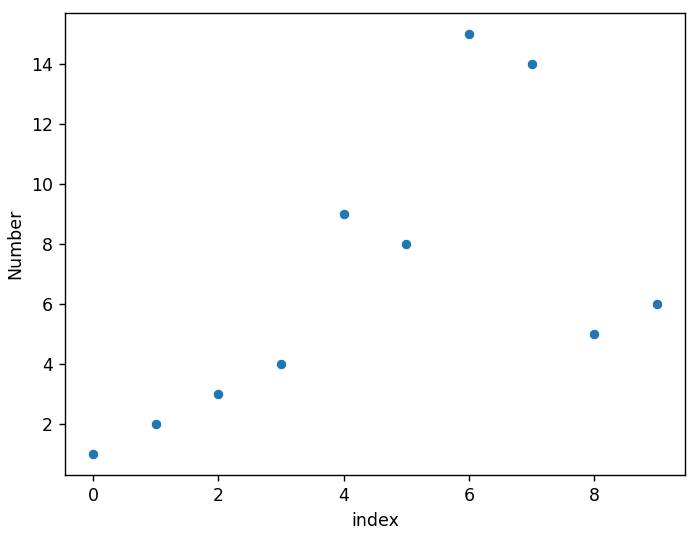
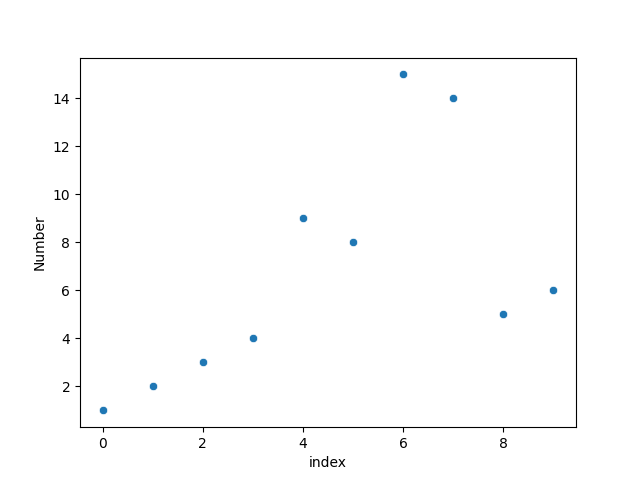
edit README.md

diff --git a/the_yellowslone_permutation.py b/the_yellowslone_permutation.py
@@ -23,8 +23,7 @@ def generate_the_yellowstone_permutation(n):
         i += 1
     return sequence
 
-sequence = generate_the_yellowstone_permutation(20)
-print(sequence)
+print(generate_the_yellowstone_permutation(100))
 
 # Basic Scatterplots
 n = 10
@@ -32,6 +31,7 @@ sequence = generate_the_yellowstone_permutation(n)
 df = pd.DataFrame(sequence, columns=["Number"])
 df['index'] = [i for i in range(n)]
 sns.scatterplot(x="index", y='Number', data=df)
+plt.savefig("images/10.png")
 plt.show()
 
 n = 100
@@ -39,6 +39,7 @@ sequence = generate_the_yellowstone_permutation(n)
 df = pd.DataFrame(sequence, columns=["Number"])
 df['index'] = [i for i in range(n)]
 sns.scatterplot(x="index", y='Number', data=df)
+plt.savefig("images/100.png")
 plt.show()
 
 n = 1000
@@ -46,6 +47,7 @@ sequence = generate_the_yellowstone_permutation(n)
 df = pd.DataFrame(sequence, columns=["Number"])
 df['index'] = [i for i in range(n)]
 sns.scatterplot(x="index", y='Number', data=df)
+plt.savefig("images/1000.png")
 plt.show()
 
 n = 10000
@@ -53,4 +55,5 @@ sequence = generate_the_yellowstone_permutation(n)
 df = pd.DataFrame(sequence, columns=["Number"])
 df['index'] = [i for i in range(n)]
 sns.scatterplot(x="index", y='Number', data=df)
+plt.savefig("images/10000.png")
 plt.show()

diff --git a/README.md b/README.md
@@ -1,15 +1,18 @@
 # the-yellowstone-permutation
 This script generates [the Yellowstone Permutation](https://www.youtube.com/watch?v=DUaqiM1bGX4). 
 
-output: `[1, 2, 3, 4, 9, 8, 15, 14, 5, 6, 25, 12, 35, 16, 7, 10, 21, 20, 27, 22]`
+output: `[1, 2, 3, 4, 9, 8, 15, 14, 5, 6, 25, 12, 35, 16, 7, 10, 21, 20, 27, 22, 39, 11, 13, 33, 26, 45, 28, 51, 32, 17, 18, 85, 24, 55, 34, 65, 36, 91, 30, 49, 38, 63, 19, 42, 95, 44, 57, 40, 69, 50, 23, 48, 115, 52, 75, 46, 81, 56, 87, 62, 29, 31, 58, 93, 64, 99, 68, 77, 54, 119, 60, 133, 66, 161, 72, 175, 74, 105, 37, 70, 111, 76, 117, 80, 123, 86, 41, 43, 82, 129, 88, 135, 92, 125, 78, 145, 84, 155, 94, 165]`
 
 # Plotting with Seaborn
 ## Basic Scatterplots
 Scatterplot of 10 numbers:
 ![1000 numbers](images/10.png)
+
 Scatterplot of 100 numbers:
 ![1000 numbers](images/100.png)
+
 Scatterplot of 1000 numbers:
 ![1000 numbers](images/1000.png)
+
 Scatterplot of 10,000 numbers:
 ![10000 numbers](images/10000.png)
